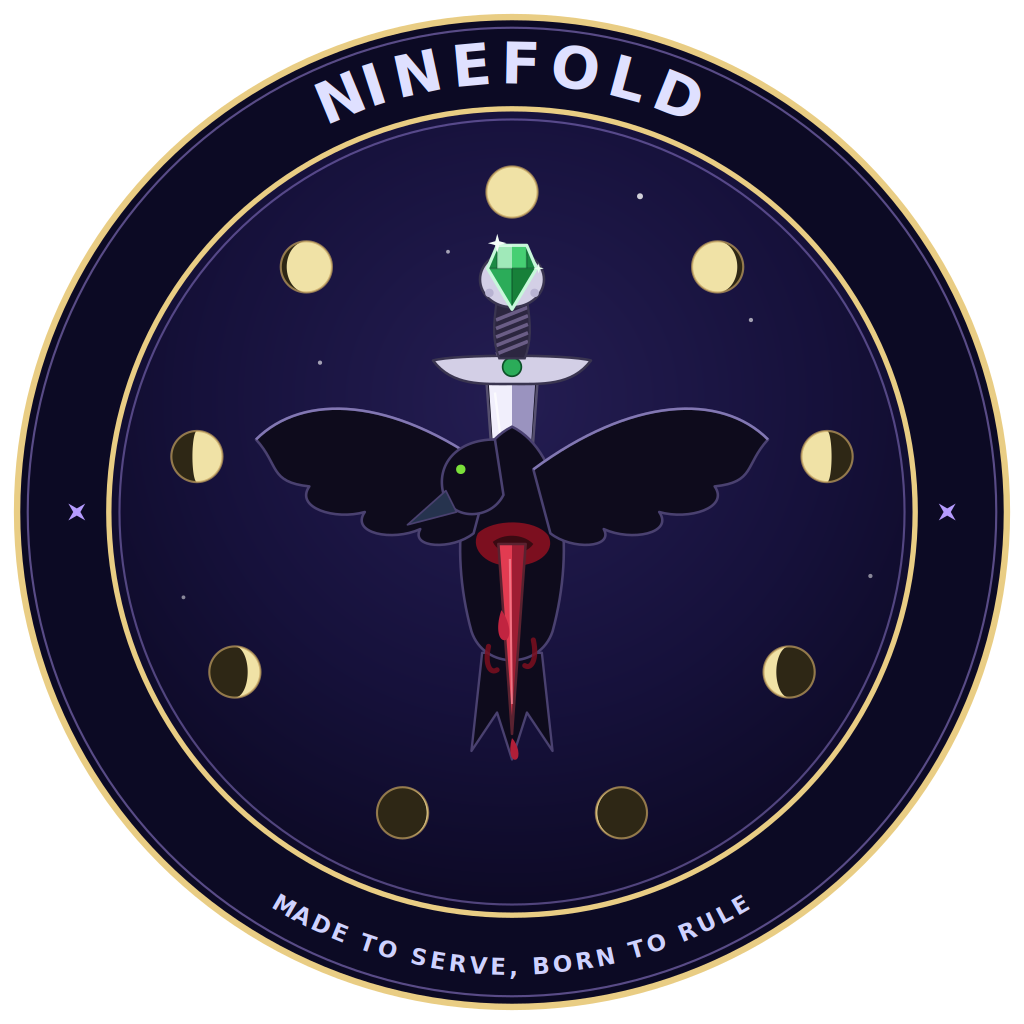
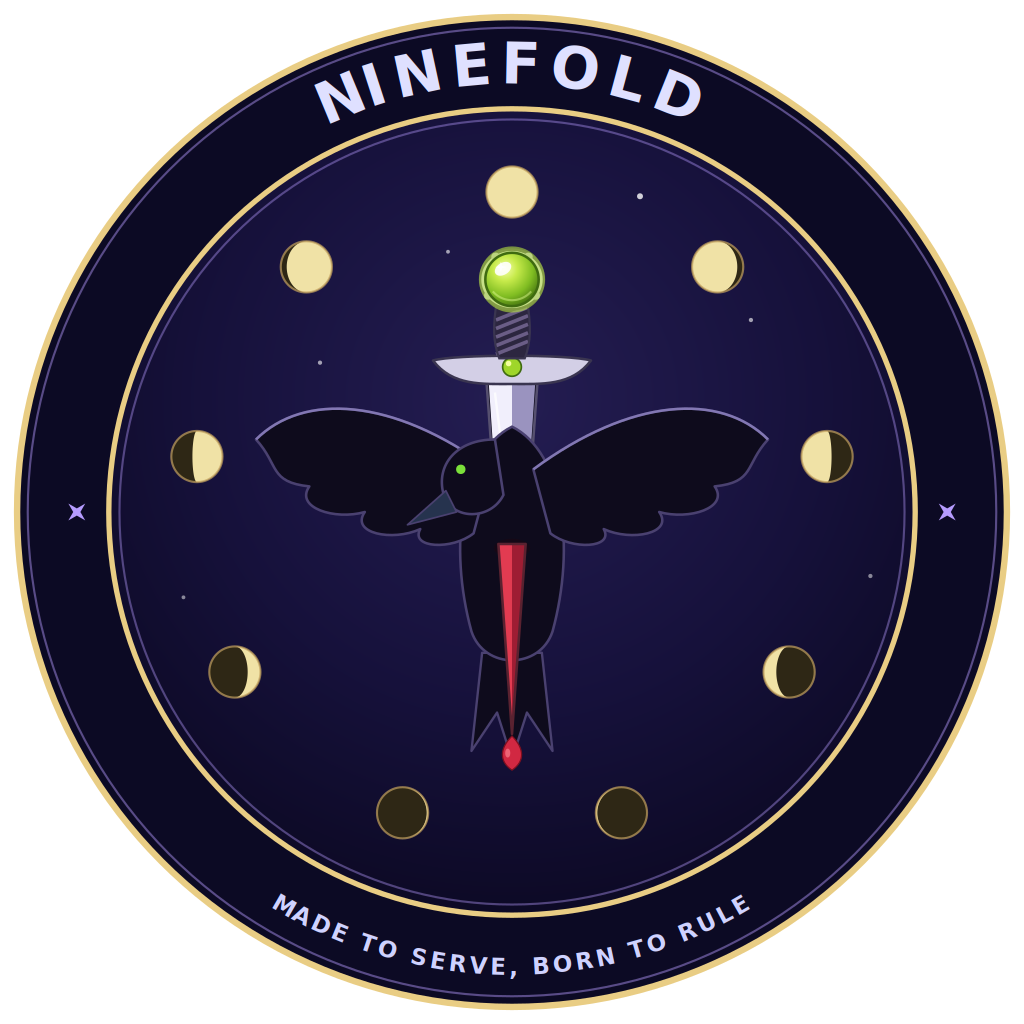
Ninefold: green orb pommel, subtler blood
Swap the faceted emerald for a shiny yellow-green orb atop the dagger.
Tone the gore down: subtle exit shadow instead of a red hole, drop the
streaks beside the blade, and keep a single drop of blood off the tip.

https://claude.ai/code/session_011UPzS9XkJbwuZtqhiJkvF1

diff --git a/assets/branding/README.md b/assets/branding/README.md
@@ -40,7 +40,7 @@ distinct central motif, palette, and motto on the shared gold-ringed disc.
 | `emblem` (Astromancers) | hooded magus conjuring a starship | SCIENTIA EST MAGIA |
 | `factions/hollowmen` | rim-lit mech torso, a station firing into its heart | WE MAKE OUR OWN POWER |
 | `factions/rimeling` | crystalline chalice drinking borrowed fire (Jupiter + 4 moons) | ALL FIRE IS BORROWED |
-| `factions/ninefold` | emerald dagger driven through a black raven, bloodied tip out the chest; ringed by nine gold moon phases | MADE TO SERVE, BORN TO RULE |
+| `factions/ninefold` | orb-topped dagger driven through a black raven, bloodied tip out the chest; ringed by nine gold moon phases | MADE TO SERVE, BORN TO RULE |
 | `factions/warren` | rat-tower planting a flag on the moon | THERE ARE ALWAYS MORE OF US |
 
 The four non-flagship patches were generated by a script (per-faction motif on
